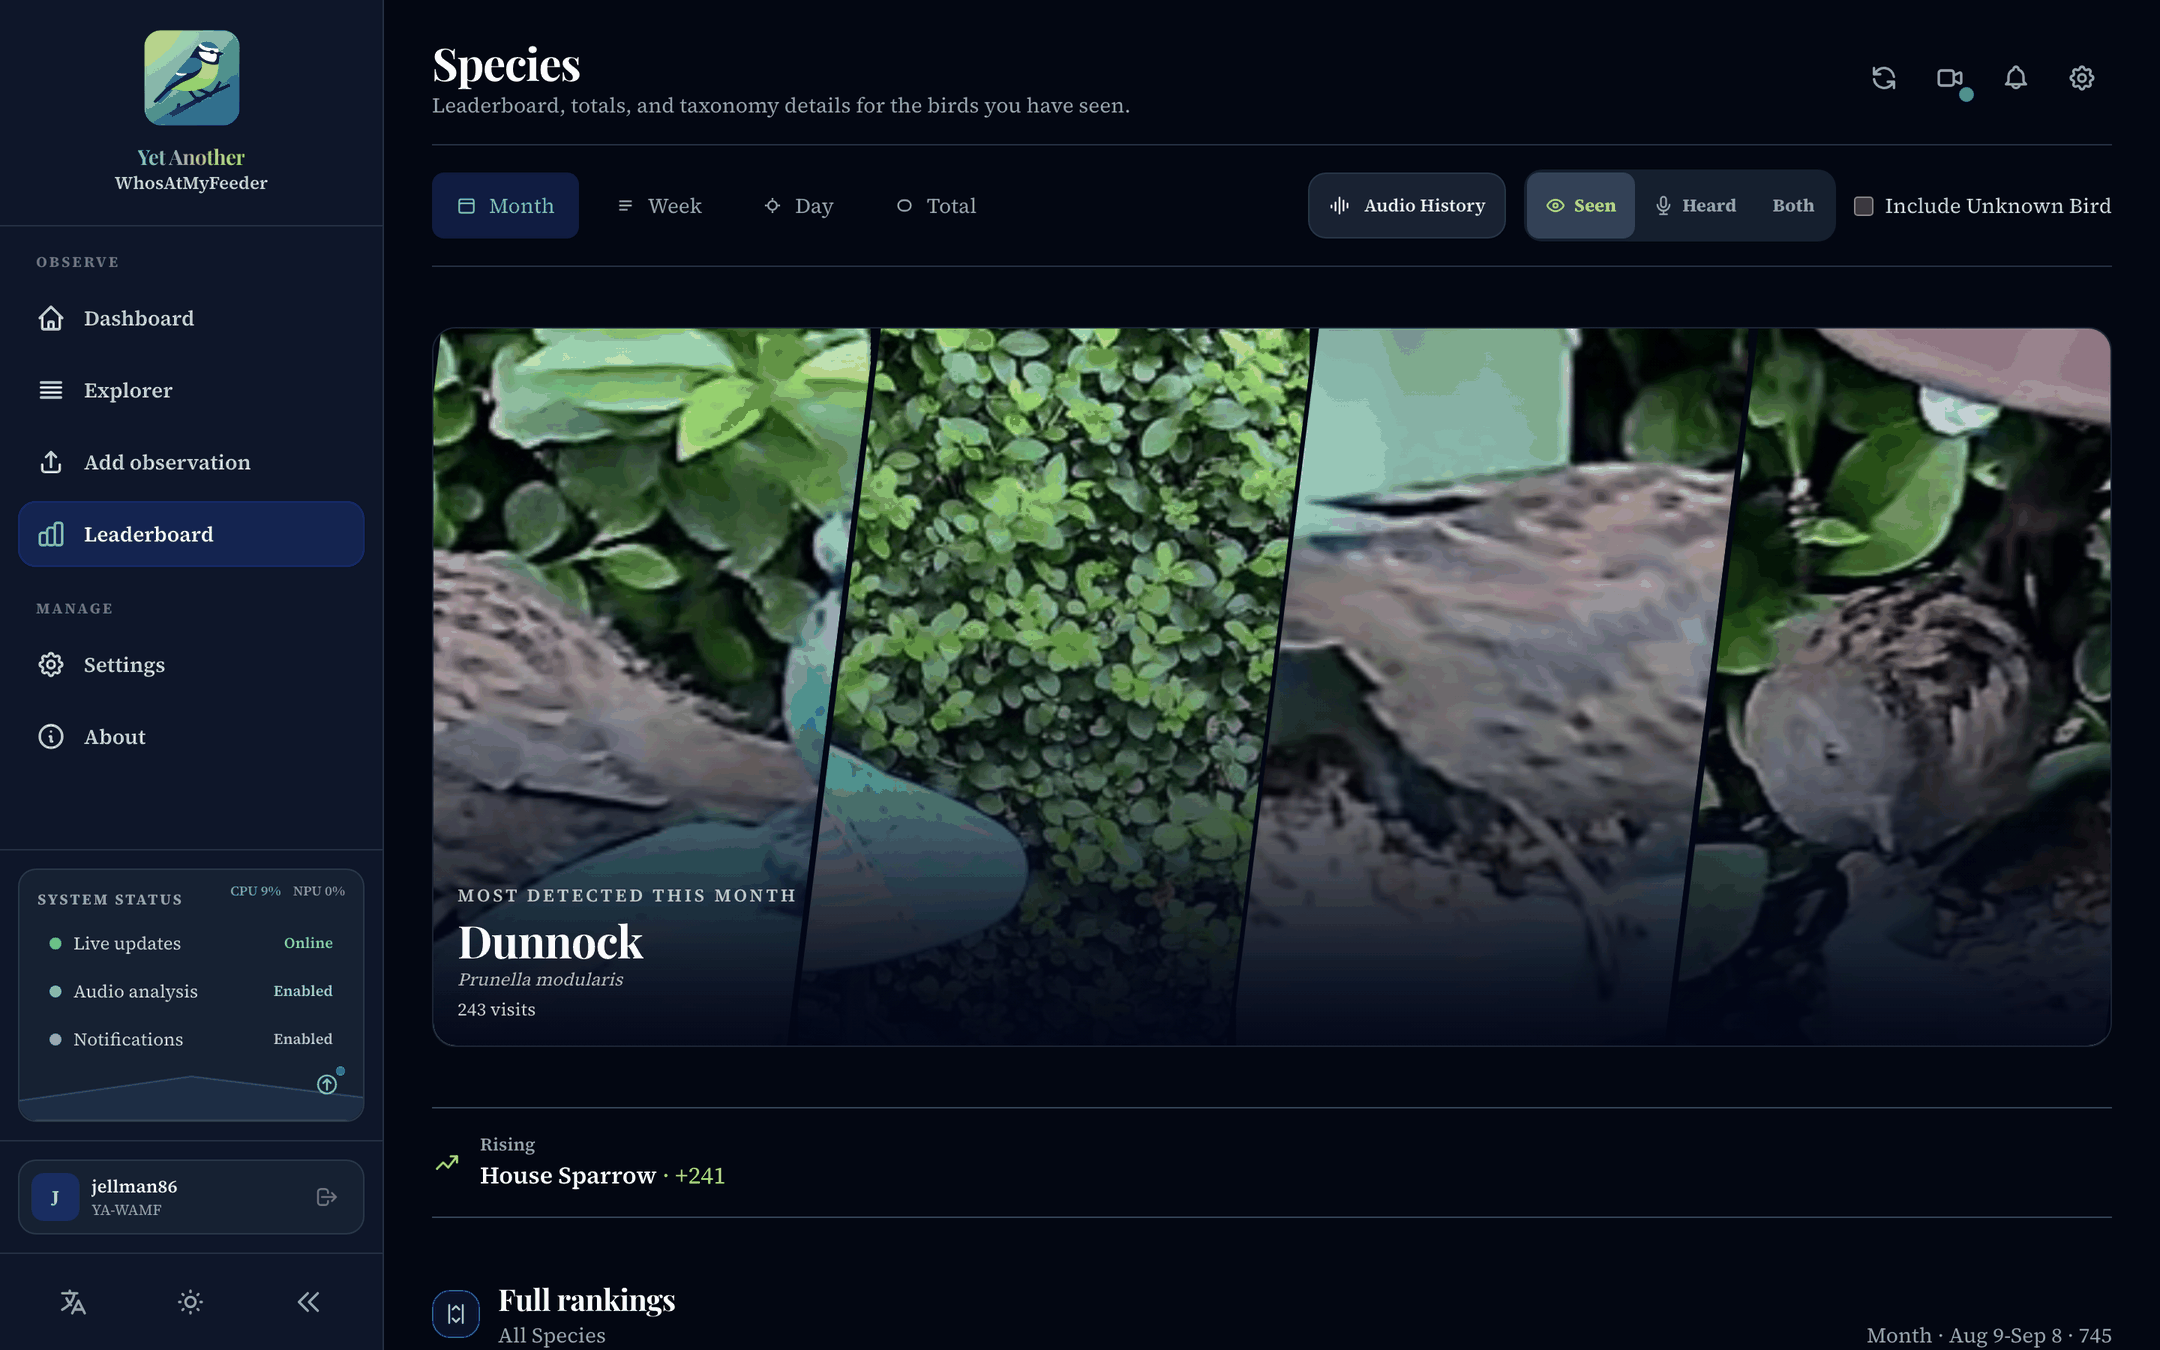
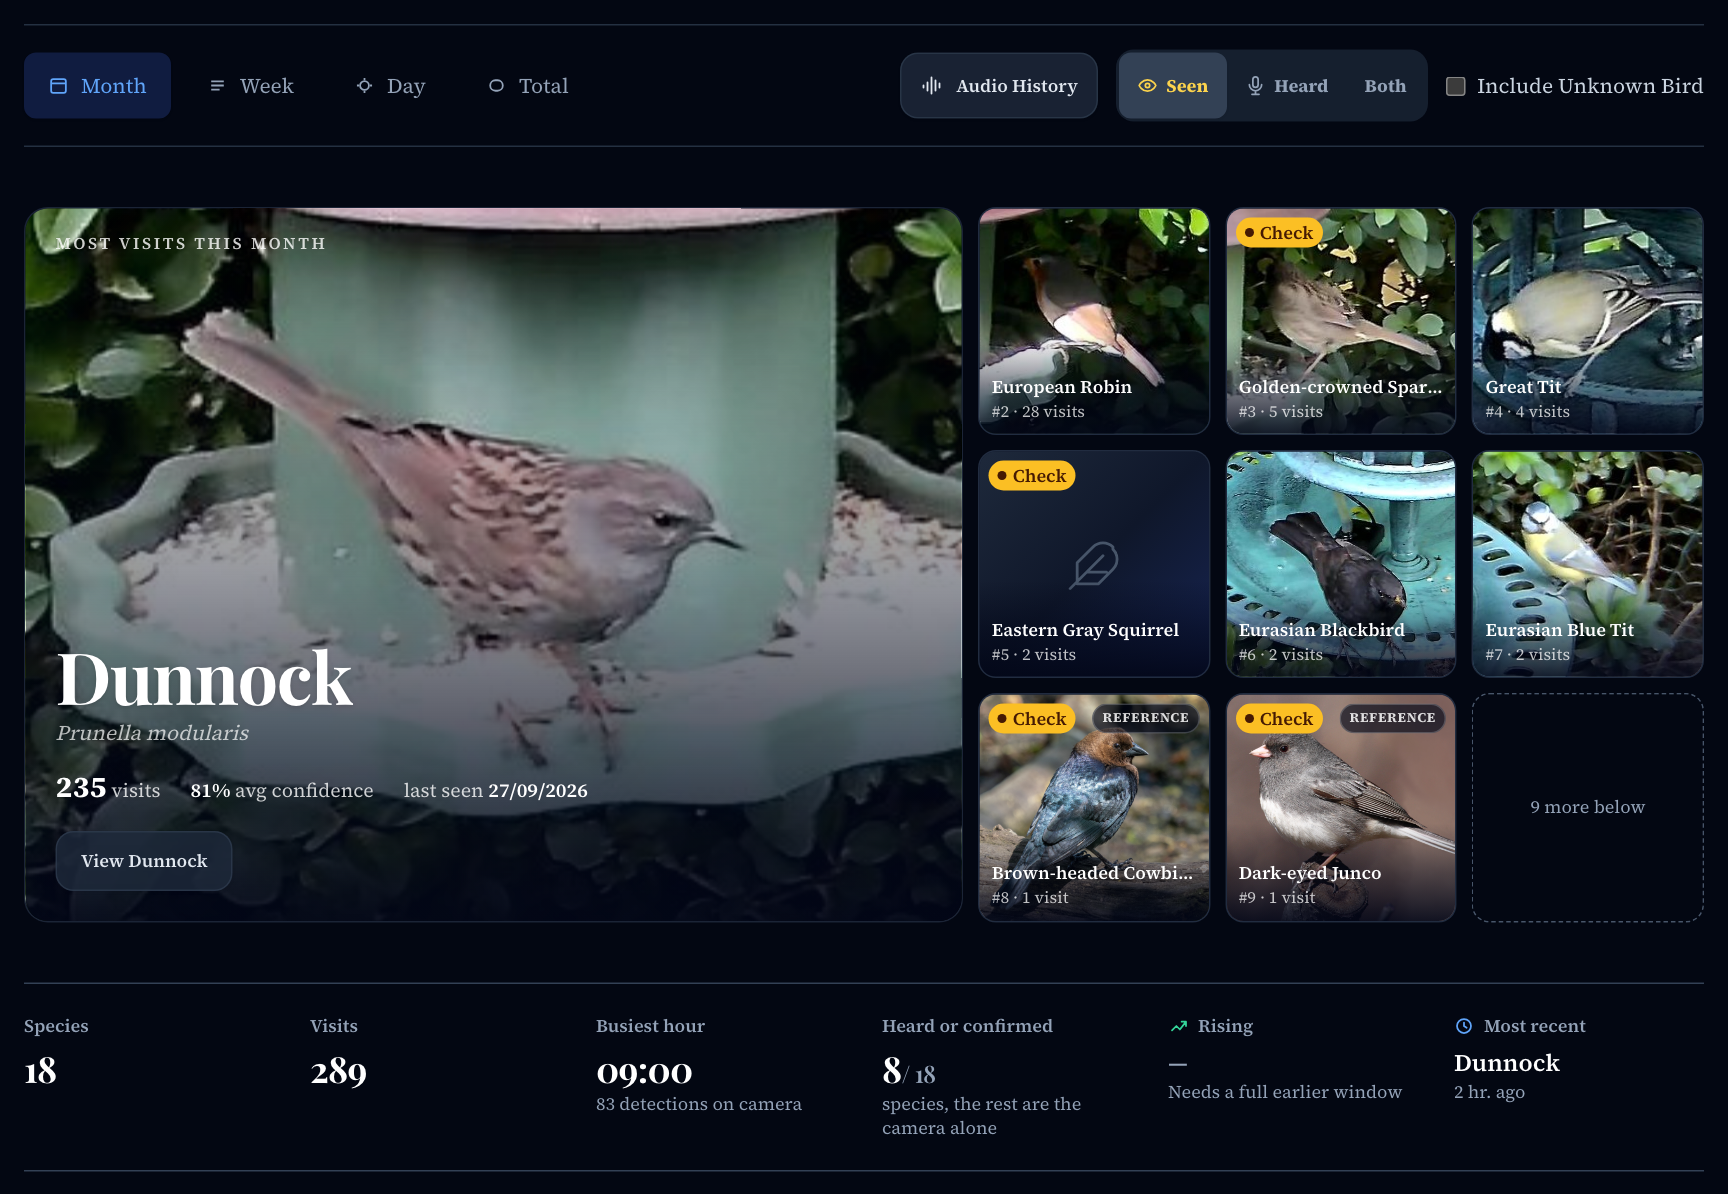
Refresh the leaderboard screenshot and its description

diff --git a/docs/features/taxonomy.md b/docs/features/taxonomy.md
@@ -19,7 +19,7 @@ The system is connected to the [iNaturalist API](https://www.inaturalist.org/). 
 **Leaderboard** in the sidebar (the page itself is headed **Species**) is where the naming style
 is most visible, because it shows both names together:
 
-![The Species page reached from Leaderboard, with the Month window and the Seen filter selected: a full-bleed card headed "Most detected this month" naming Dunnock, Prunella modularis, 243 visits, a Rising line for House Sparrow beneath it, and the start of the full rankings](../images/leaderboard.png)
+![The Leaderboard with the Month window and the Seen filter selected: Dunnock, Prunella modularis, as the large photograph with 235 visits, and eight smaller photographs beside it, four of them (Golden-crowned Sparrow, Eastern Gray Squirrel, Brown-headed Cowbird, Dark-eyed Junco) marked Check because nobody reported them nearby. Beneath, a band reads 18 species, 289 visits, busiest hour 09:00, 8 of 18 species heard or confirmed, no Rising yet because the history needs a full earlier window, and Dunnock seen most recently](../images/leaderboard.png)
 
 The **Day / Week / Month / Total** buttons set the window. **Seen / Heard / Both** decide what the
 ranking counts: **Seen** ranks by camera visits, **Heard** by BirdNET-Go detections, and
